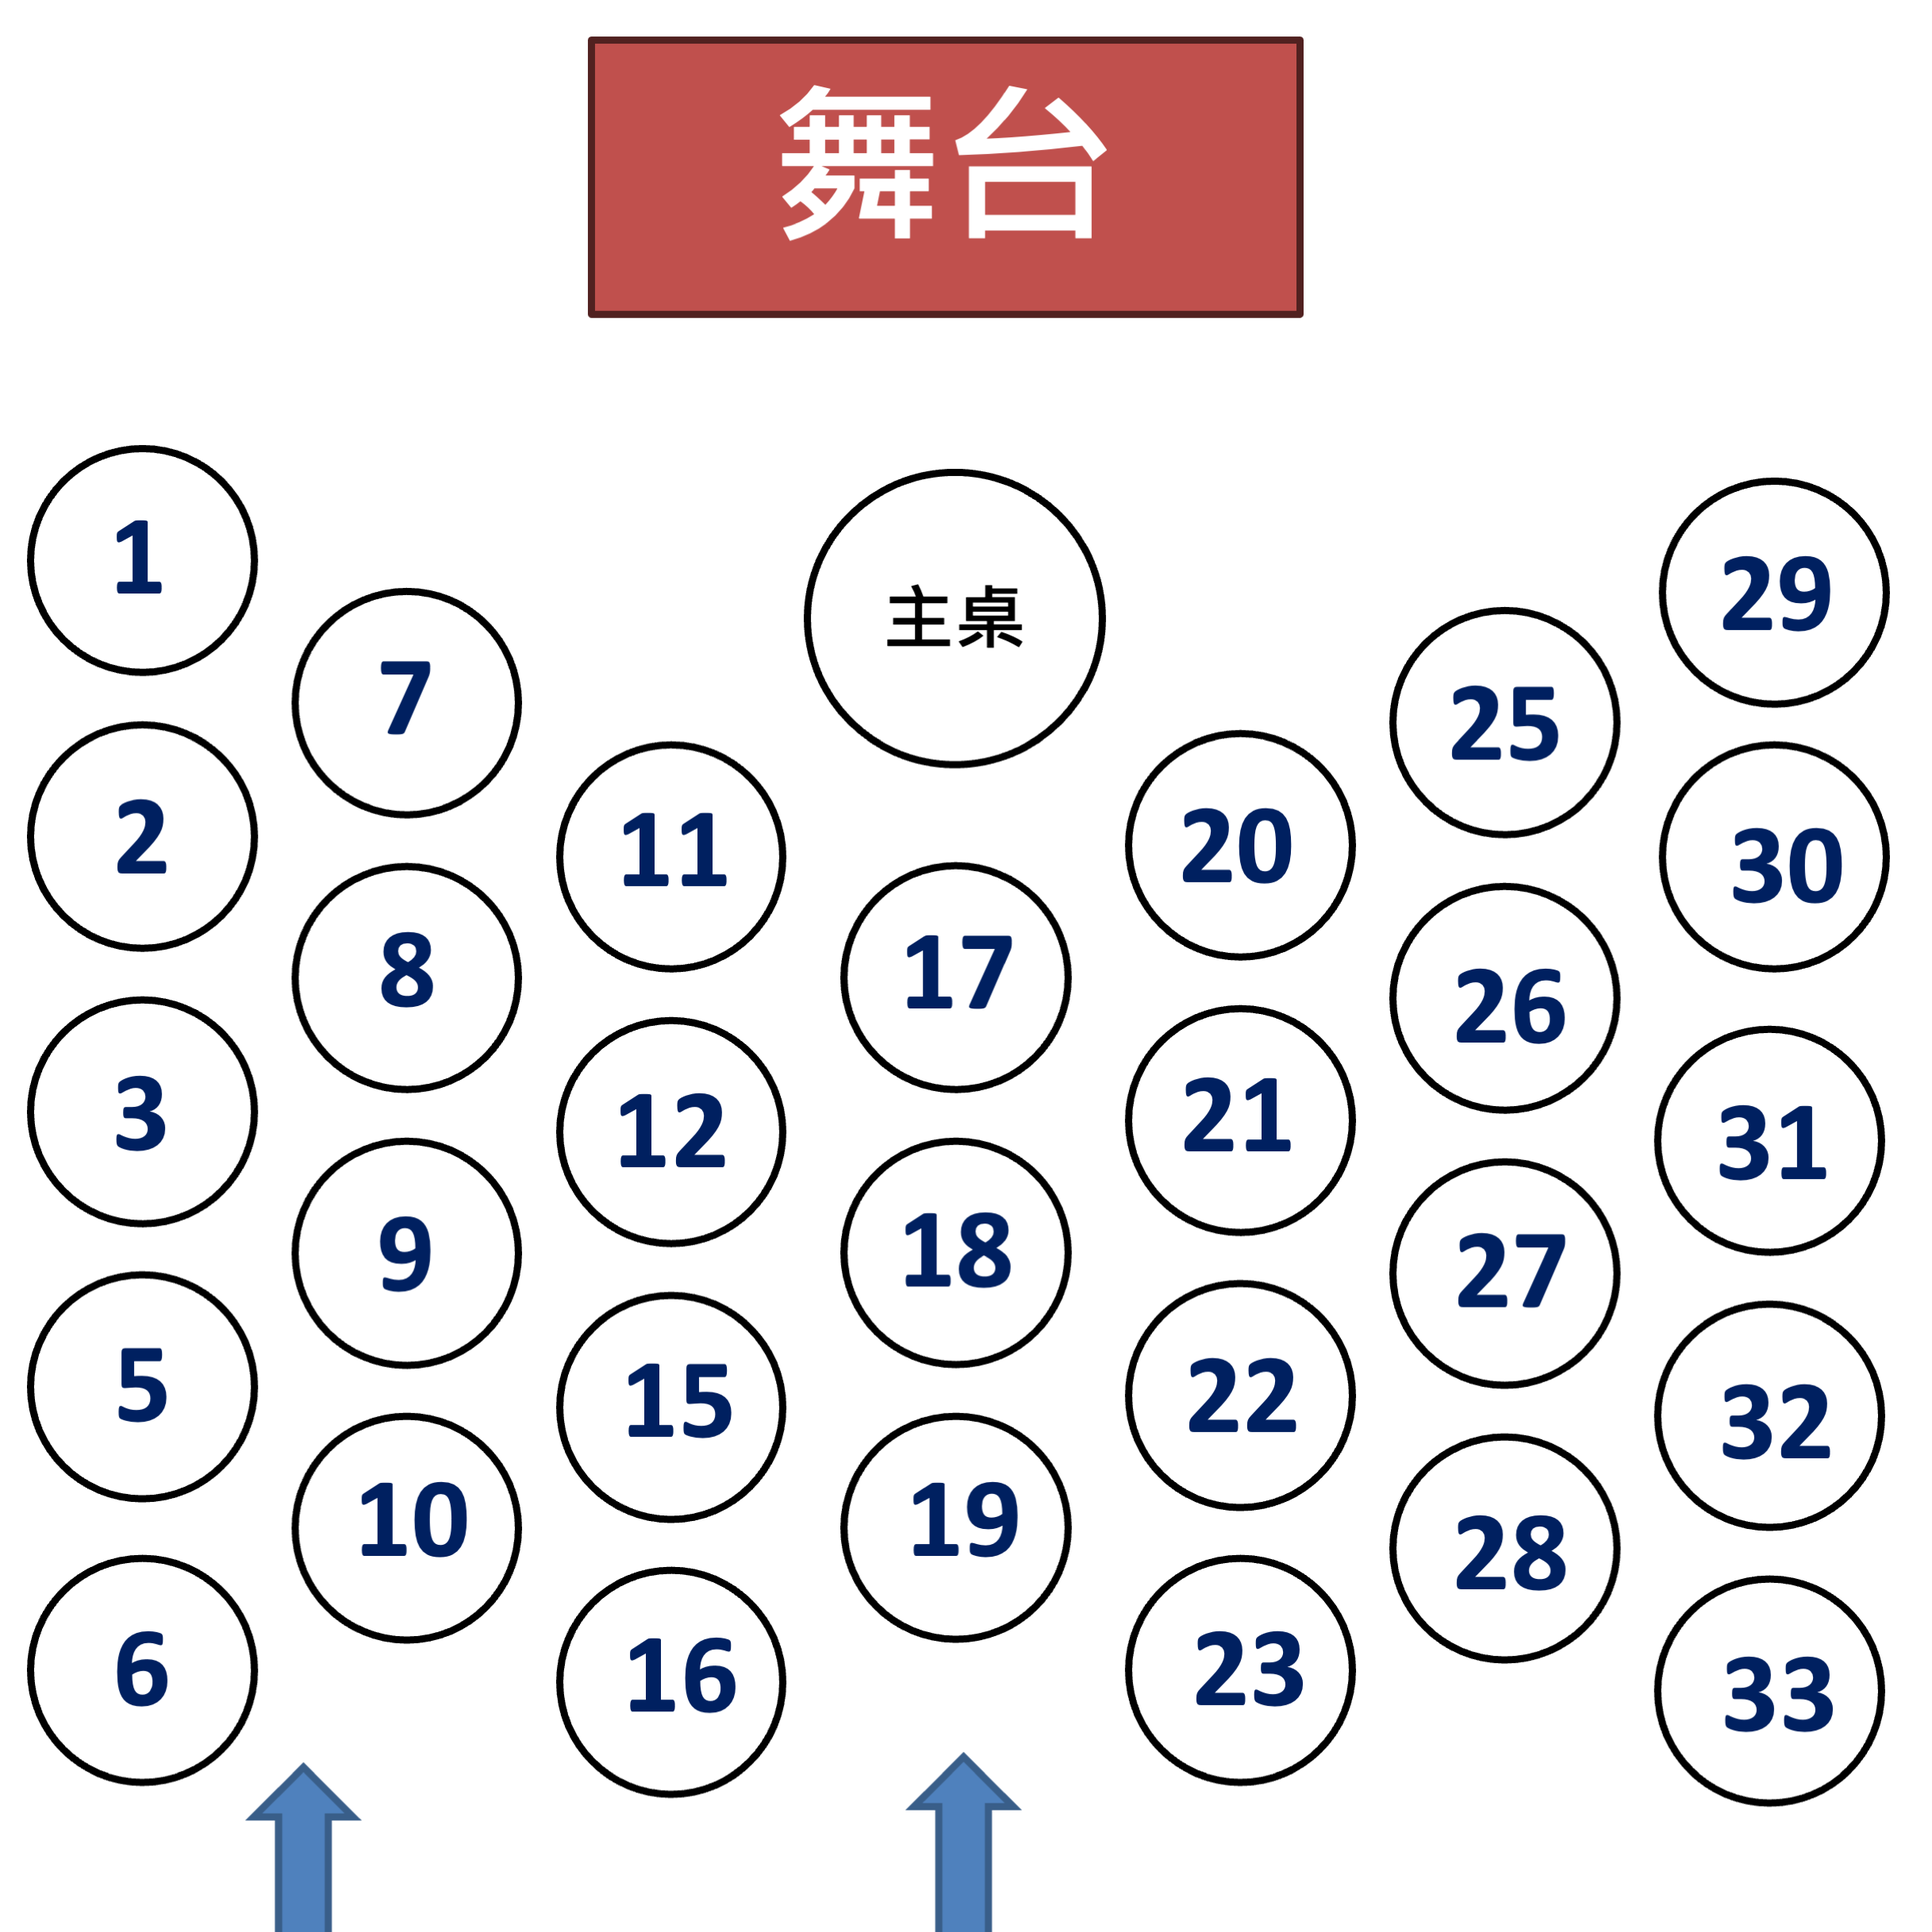
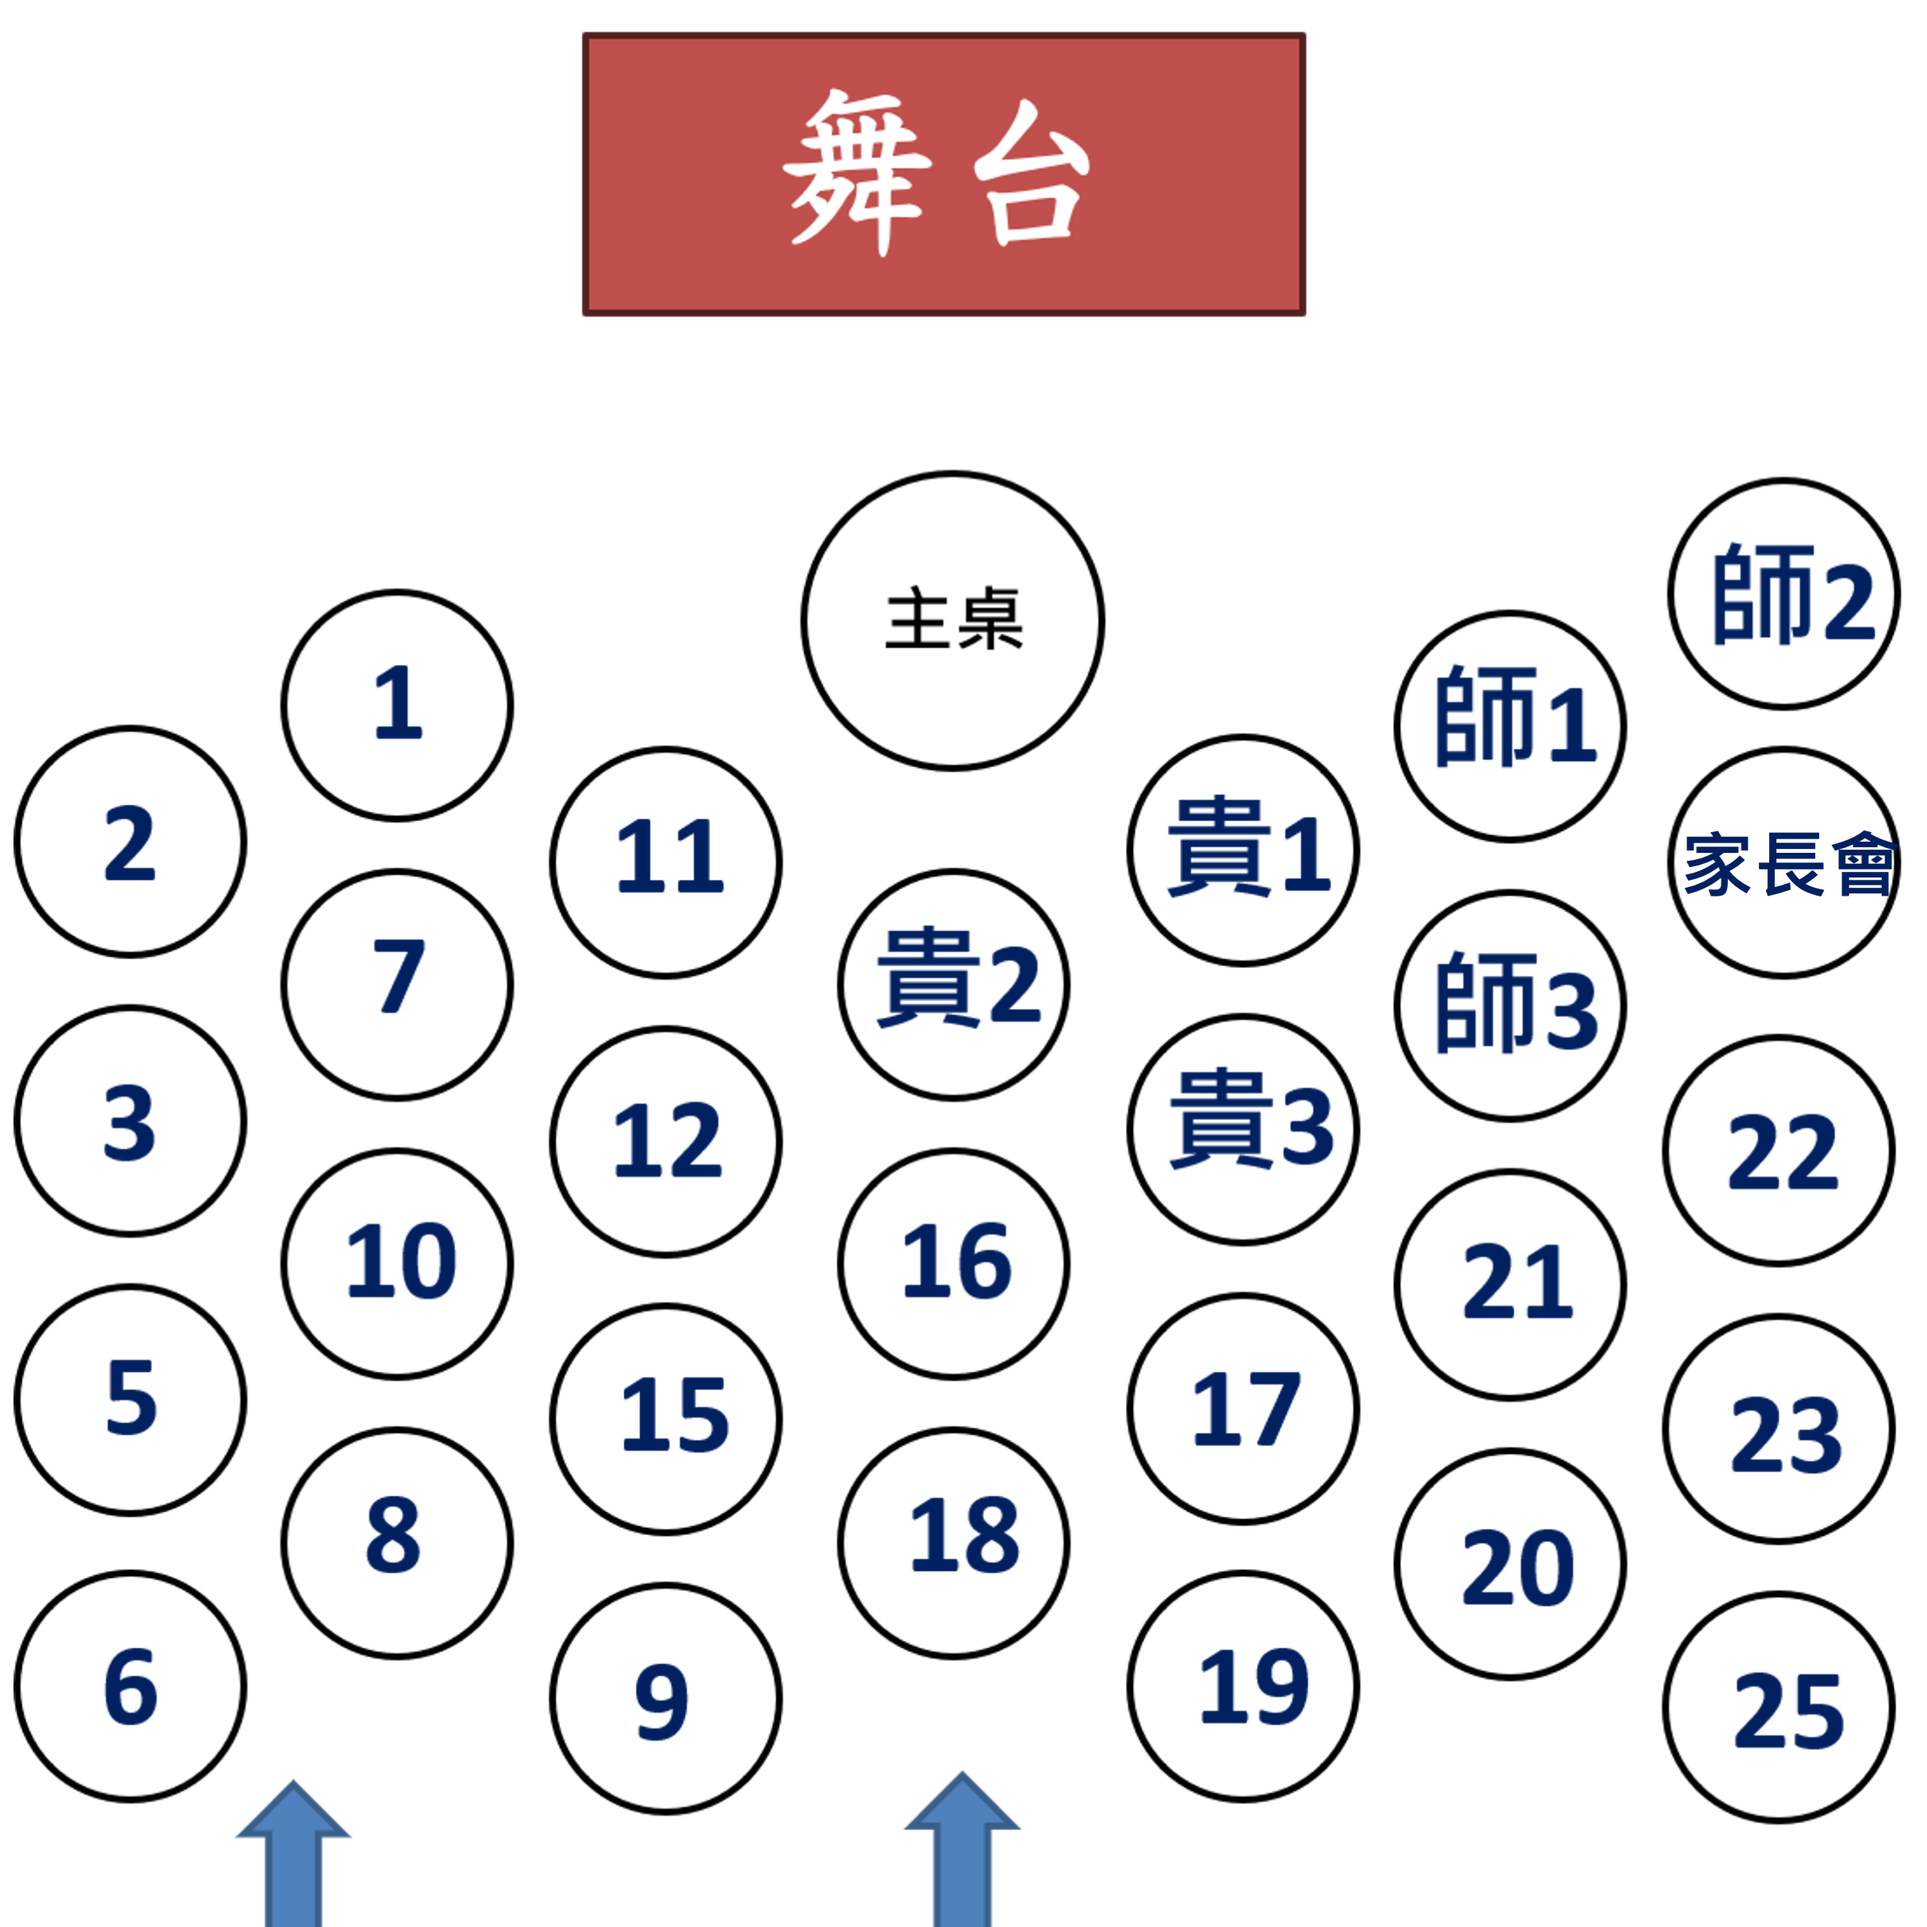
bug_fixed
1. fix safari fetch ''
2. change table.png
3. edit circle position

diff --git a/static/js/search.js b/static/js/search.js
@@ -1,35 +1,34 @@
 const searchElement = document.getElementById("search_input");
 var circle_position = {
-    1: { x: 5, y: 80 },
-    2: { x: 5, y: 131 },
-    3: { x: 5, y: 180 },
-    5: { x: 5, y: 230 },
-    6: { x: 5, y: 282 },
-    7: { x: 52, y: 106 },
-    8: { x: 52, y: 156 },
-    9: { x: 52, y: 206 },
-    10: { x: 52, y: 256 },
-    11: { x: 99, y: 134 },
-    12: { x: 99, y: 183 },
-    15: { x: 99, y: 233 },
-    16: { x: 100, y: 283 },
-    17: { x: 152, y: 156 },
-    18: { x: 152, y: 206 },
-    19: { x: 152, y: 255 },
-    20: { x: 204, y: 132 },
-    21: { x: 204, y: 182 },
-    22: { x: 204, y: 231 },
-    23: { x: 204, y: 282 },
-    25: { x: 252, y: 110 },
-    26: { x: 252, y: 160 },
-    27: { x: 252, y: 210 },
-    28: { x: 252, y: 260 },
-    29: { x: 300, y: 86 },
-    30: { x: 300, y: 134 },
-    31: { x: 300, y: 185 },
-    32: { x: 300, y: 235 },
-    33: { x: 300, y: 286 },
-    "主桌": { x: 152, y: 91 }
+    1: { x: 52, y: 108 },
+    2: { x: 3, y: 131 },
+    3: { x: 3, y: 183 },
+    5: { x: 3, y: 234 },
+    6: { x: 3, y: 285 },
+    7: { x: 52, y: 158 },
+    8: { x: 52, y: 258 },
+    9: { x: 100, y: 287 },
+    10: { x: 52, y: 208 },
+    11: { x: 100, y: 135 },
+    12: { x: 100, y: 186 },
+    15: { x: 100, y: 237 },
+    16: { x: 152, y: 208 },
+    17: { x: 205, y: 234 },
+    18: { x: 152, y: 258 },
+    19: { x: 205, y: 284 },
+    20: { x: 253, y: 263 },
+    21: { x: 253, y: 213 },
+    22: { x: 303, y: 188 },
+    23: { x: 303, y: 238 },
+    25: { x: 303, y: 288 },
+    "主桌": { x: 152, y: 91 },
+    "貴1": { x: 205, y: 132 },
+    "貴2": { x: 152, y: 157 },
+    "貴3": { x: 205, y: 184 },
+    "師1": { x: 253, y: 110 },
+    "師2": { x: 303, y: 86 },
+    "師3": { x: 253, y: 162 },
+    "家長會": { x: 303, y: 136 },
 };
 
 var start_time = 0;
@@ -196,18 +195,20 @@ function fetchSearchResult(key, value, ambiguous) {
 
 searchElement.addEventListener("input", (event) => {
     document.getElementById("result").innerHTML = "";
-    if (event.inputType != 'deleteContentBackward') {
-        resultList = [];
-        fetchSearchResult(['table_num', 'table_owner', 'name'], [searchElement.value, searchElement.value, searchElement.value], [0, 1, 1]);
-    }
-    else {
-        document.getElementById("user_input_display").innerHTML = "";
-        console.log('delete');
-    }
-    if (searchElement.value === "") {
+    if (searchElement.value === "" || searchElement.value === " ") {
         let predictresult = document.getElementById("predict_result");
         let predict = document.getElementById("predict");
         predictresult.innerHTML = "";
         predict.style.display = "none";
+    }
+    else {
+        if (event.inputType != 'deleteContentBackward') {
+            resultList = [];
+            fetchSearchResult(['table_num', 'table_owner', 'name'], [searchElement.value, searchElement.value, searchElement.value], [0, 1, 1]);
+        }
+        else {
+            document.getElementById("user_input_display").innerHTML = "";
+            console.log('delete');
+        }
     }
 });
